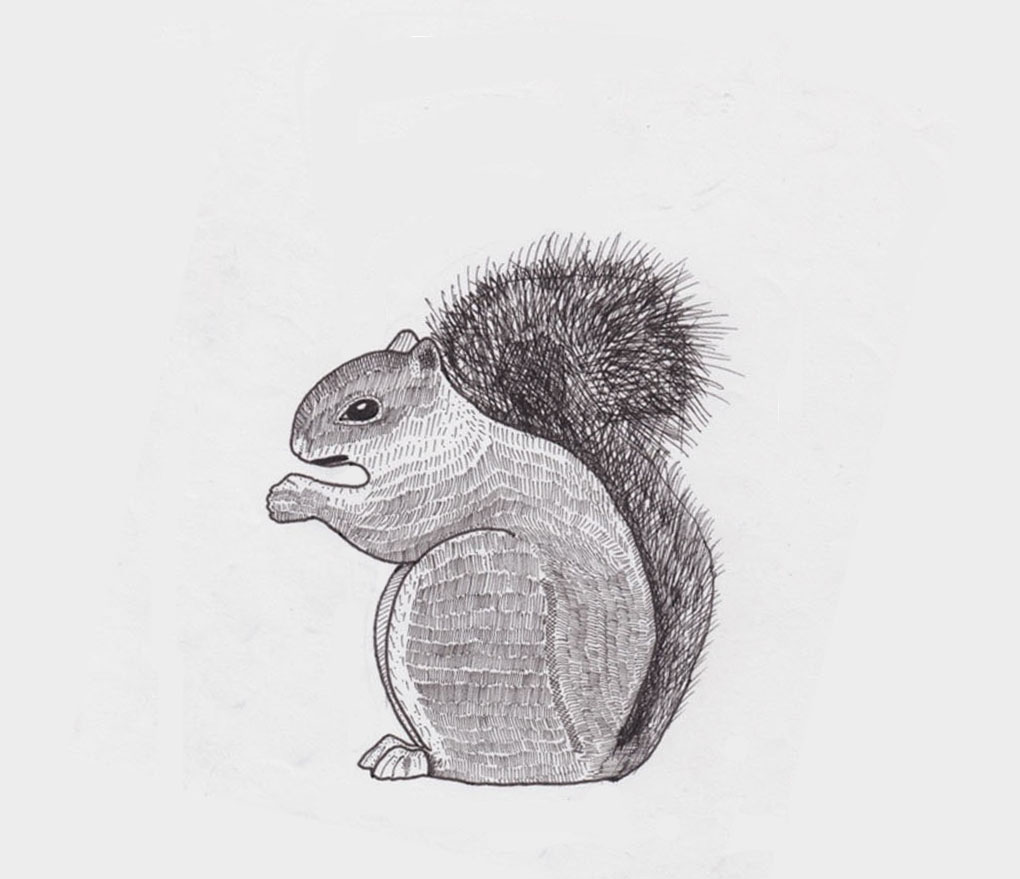
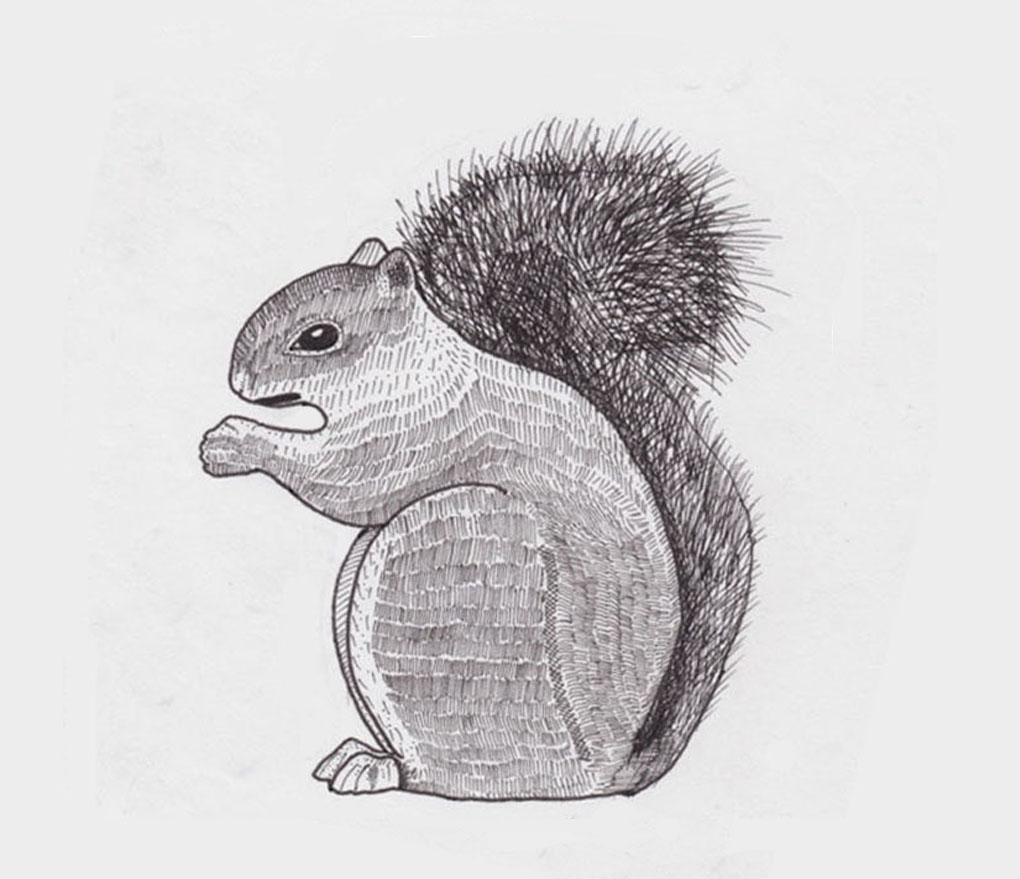
header

Changed region(s): [[0.1824, 0.1229, 0.7598, 0.9215]]

diff --git a/index.html b/index.html
@@ -28,7 +28,7 @@
 			        <a class="gallery" href="pics/Orchid.jpg"><img src="pics/Orchid.jpg"></a>
 			        <a class="gallery" href="pics/Wing.jpg"><img src="pics/Wing.jpg"></a>
 			        <a class="gallery" href="pics/Squirrel-Skull.jpg"><img src="pics/Squirrel-Skull.jpg"></a>
-			        <a class="gallery" href="pics/Squirrel (redone).jpg"><img src="pics/Dotted Goat (redone).jpg"></a>
+			        <a class="gallery" href="pics/Squirrel (redone).jpg"><img src="pics/Squirrel (redone).jpg"></a>
 			        <a class="gallery" href="pics/tomato.jpg"><img src="pics/tomato.jpg"></a>
 		       </div>
 		       <h1 class="click2">Photography</h1>
